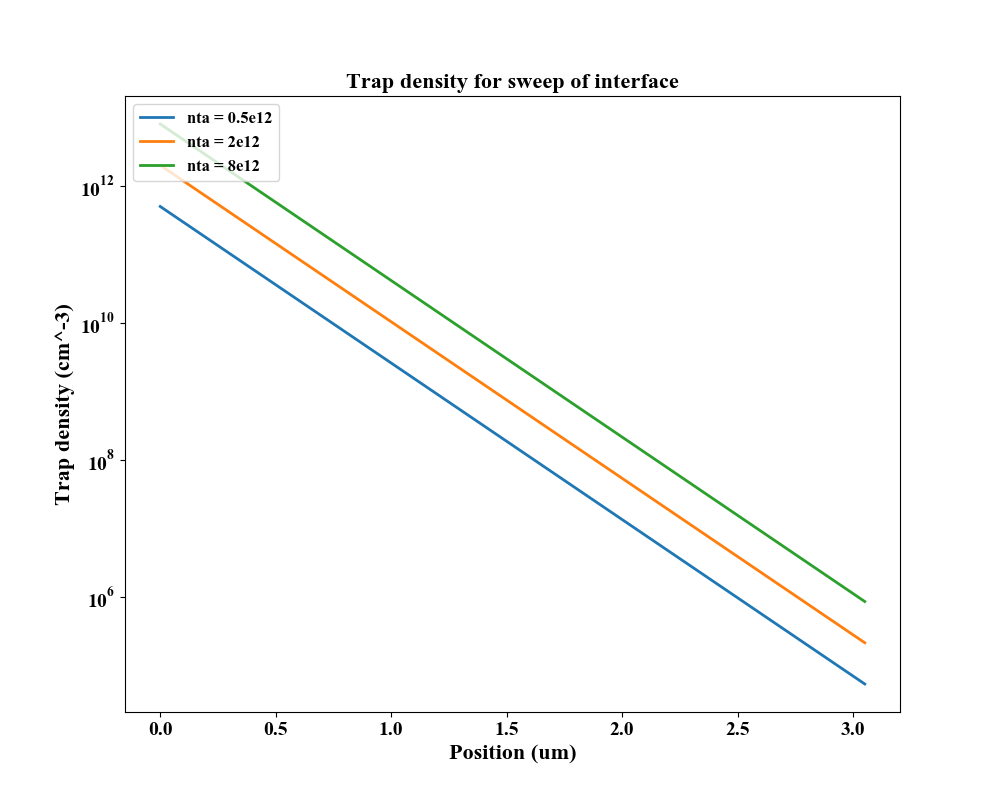
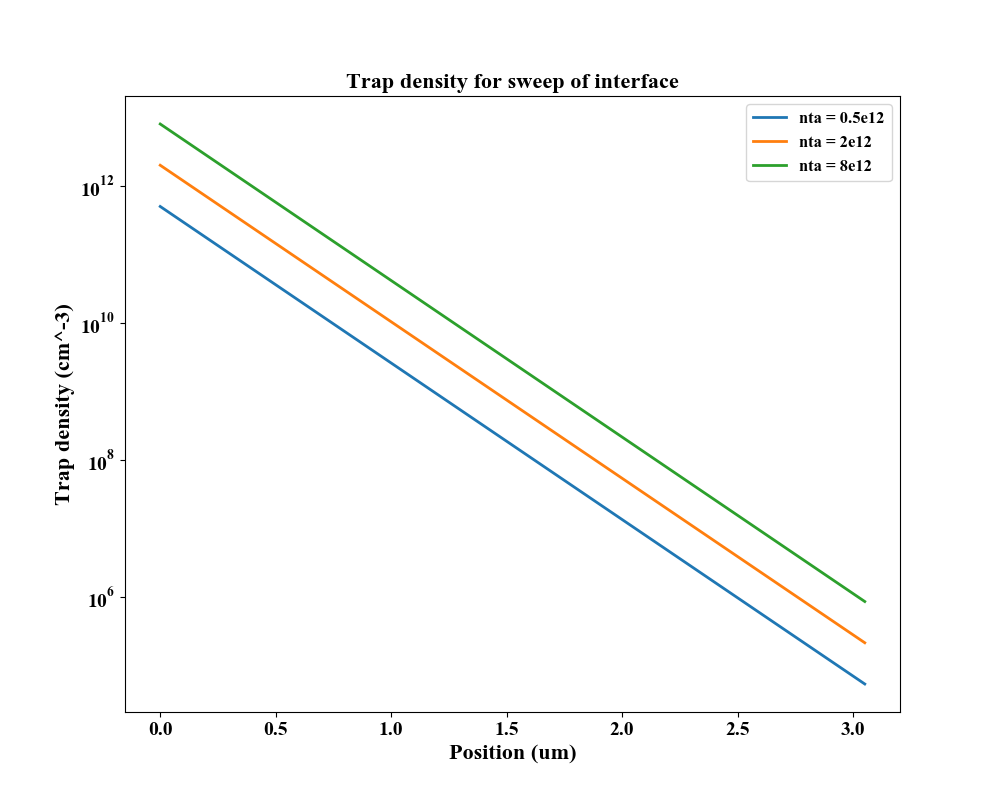
Legend position modified

Changed region(s): [[0.744, 0.125, 0.899, 0.2188], [0.124, 0.125, 0.279, 0.2188]]

diff --git a/DataProcess/Project_2.py b/DataProcess/Project_2.py
@@ -72,7 +72,7 @@ def plot_trap_1(root, files, name):
     plt.ylabel('Trap density (cm^-3)', fontdict={'family':'Times New Roman', 'size': 16})
     plt.yticks(fontproperties = 'Times New Roman', size = 14)
     plt.xticks(fontproperties = 'Times New Roman', size = 14)
-    plt.legend(loc = 2, prop={'family':'Times New Roman', 'size':12})
+    plt.legend(loc = 1, prop={'family':'Times New Roman', 'size':12})
     plt.savefig('/Users/yifuhhh/TFT_Projects/Prj_2/Plots/' + 'Fig0_' + name + '.png')
     plt.show()
 
